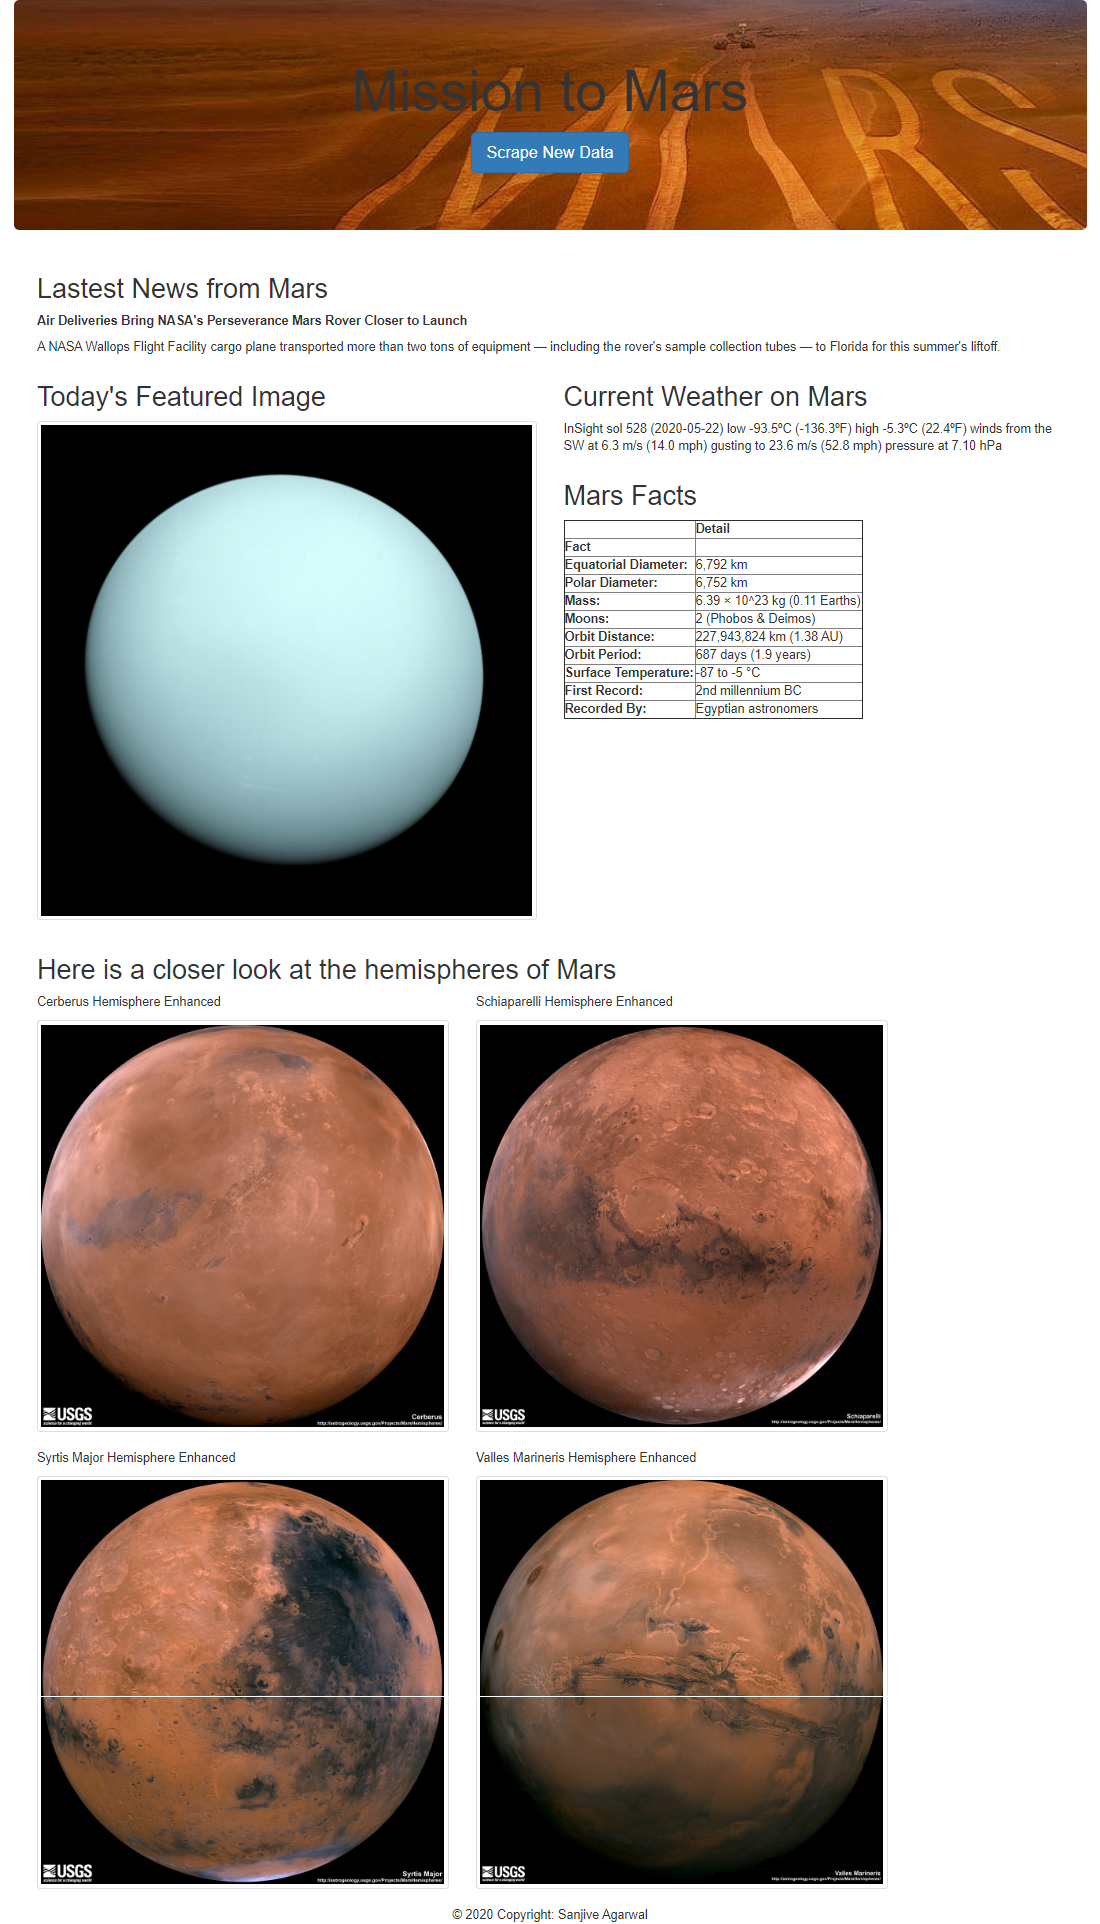
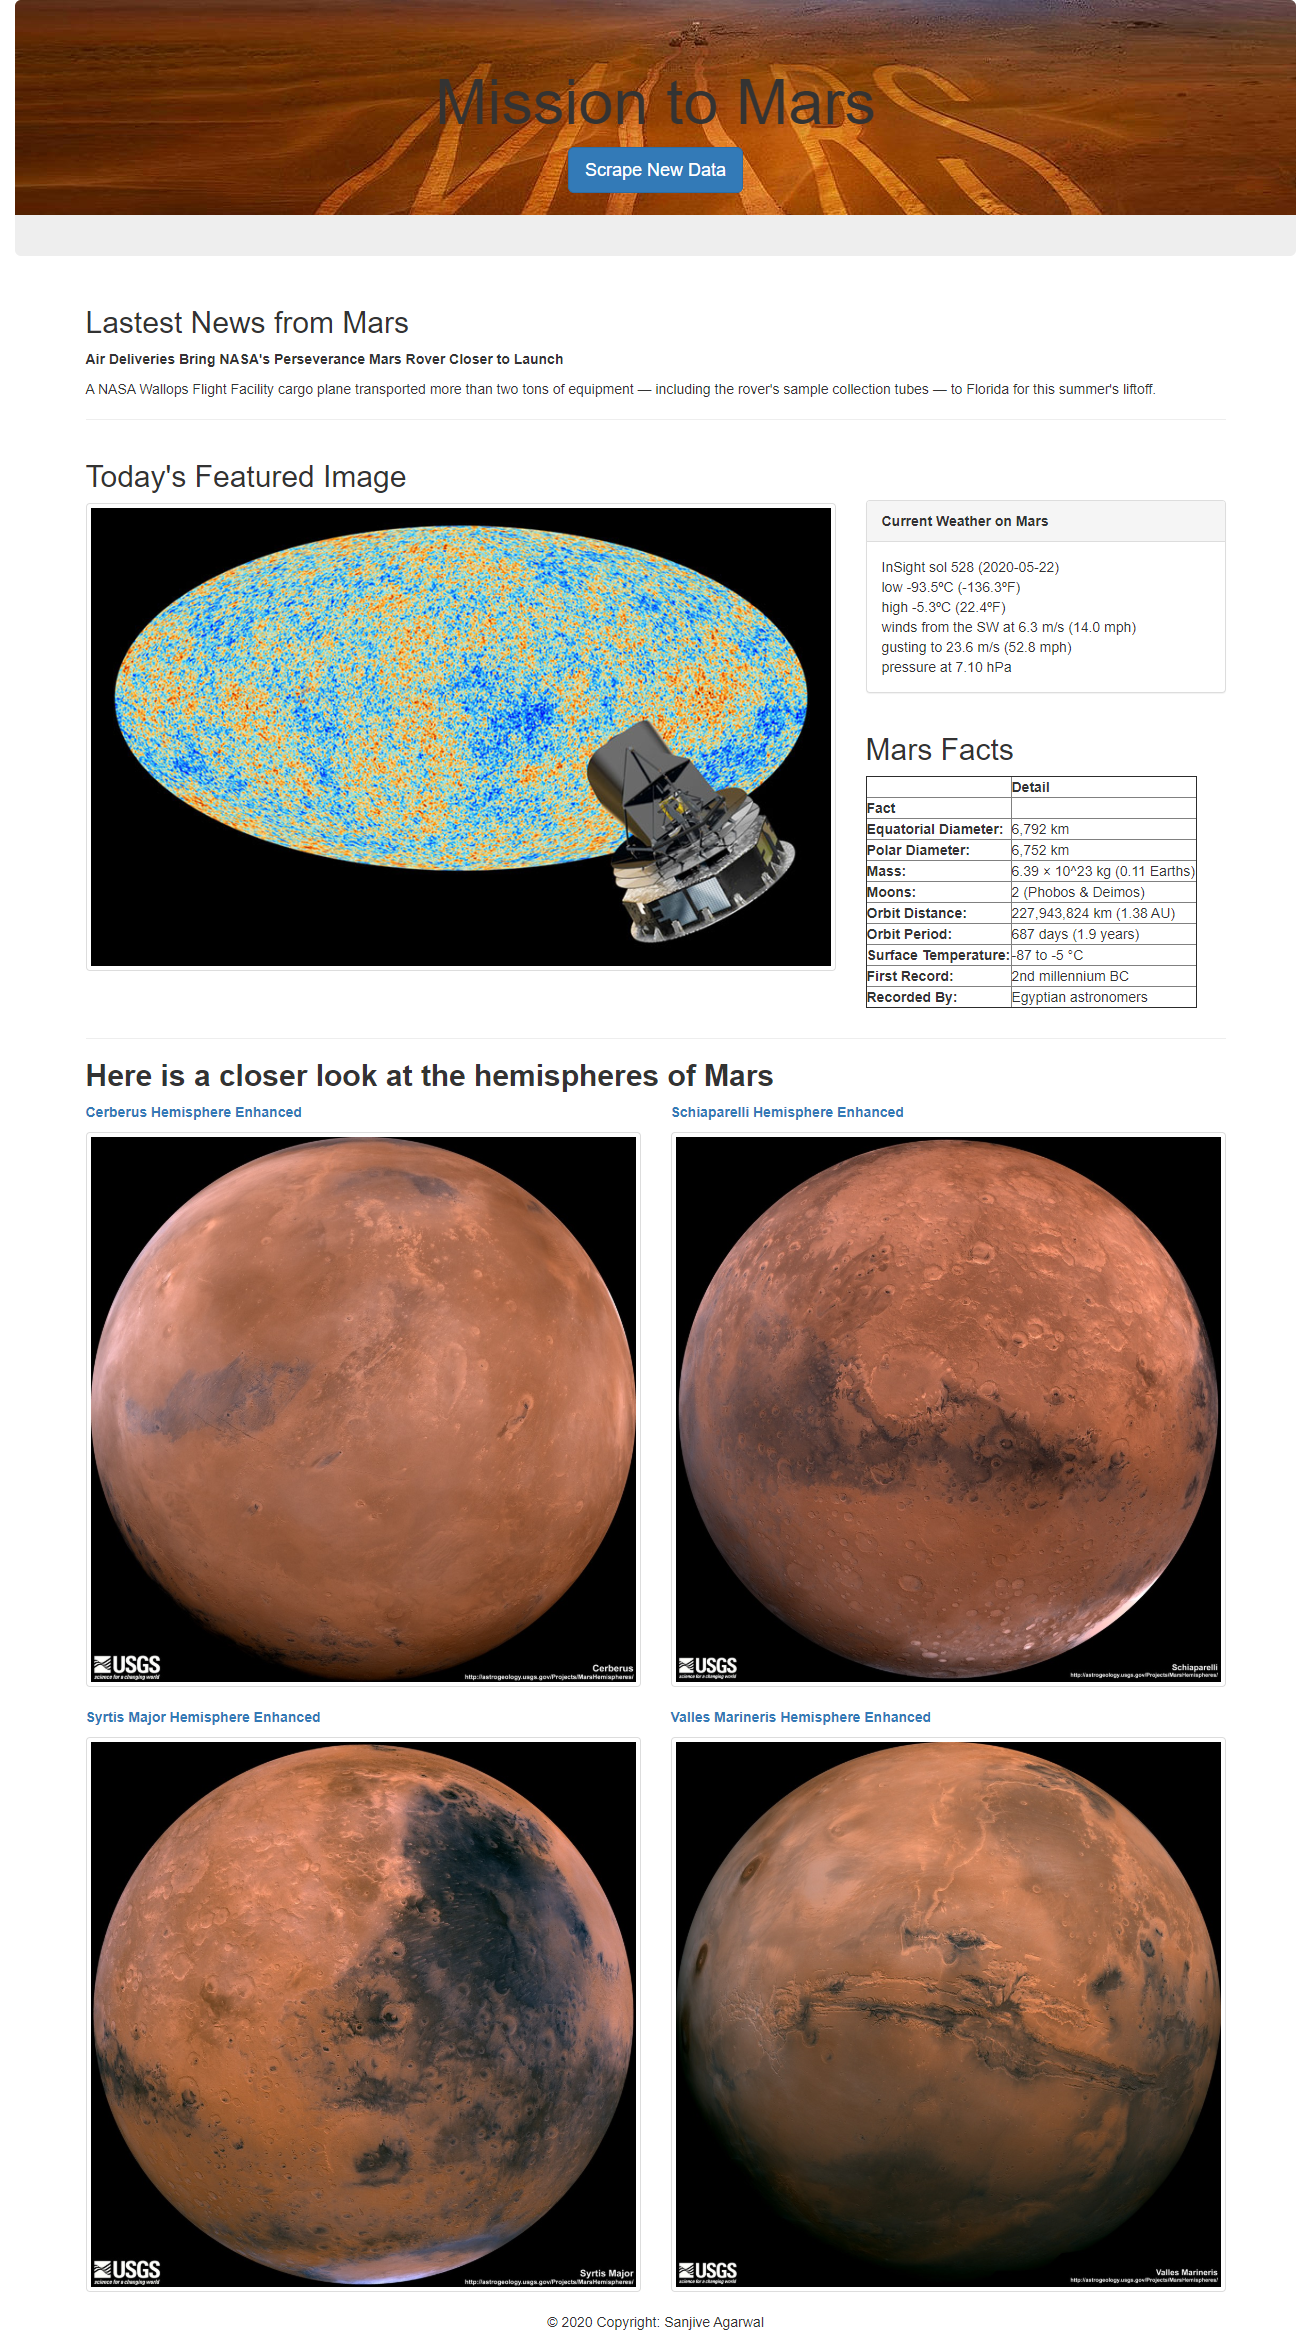
Commiting the final changes

diff --git a/mission_to_mars/templates/index.html b/mission_to_mars/templates/index.html
@@ -3,22 +3,23 @@
 
 <head>
   <!-- Required meta tags -->
-  <meta charset="UTF-8">
-  <meta name="viewport" content="width=device-width, initial-scale=1.0">
-  <!-- <meta http-equiv="X-UA-Compatible" content="ie=edge"> -->
+  <meta charset="utf-8">
+  <meta http-equiv="X-UA-Compatible" content="IE=edge">
+  <meta name="viewport" content="width=device-width, initial-scale=1">
+  <!-- The above 3 meta tags *must* come first in the head; any other head content must come *after* these tags -->
 
   <!-- Optional meta tags -->
   <meta name="author" content="Sanjive Agarwal">
   <meta name="description" content="Rutgers Data Vizualization Bootcamp Assignment - Mission to Mars">
-  <meta name="revised" content="Friday, May 25th, 2020, 4:22 pm">
+  <meta name="revised" content="Friday, May 23th, 2020, 4:22 pm">
   <meta name="keywords" content="Rutgers Data Bootcamp - Mission to Mars Assignment">
 
-  <!-- Bootstrap CSS -->
-  <link rel="stylesheet" href="https://maxcdn.bootstrapcdn.com/bootstrap/3.3.7/css/bootstrap.min.css">
+  <!-- Bootstrap ver 3.4.1 -->
+  <link rel="stylesheet" href="https://stackpath.bootstrapcdn.com/bootstrap/3.4.1/css/bootstrap.min.css"
+    integrity="sha384-HSMxcRTRxnN+Bdg0JdbxYKrThecOKuH5zCYotlSAcp1+c8xmyTe9GYg1l9a69psu" crossorigin="anonymous">
 
   <!--CSS Link-->
-  <link rel="stylesheet" type="text/css" href="./css/style.css">
-  <link rel="stylesheet" type="text/css" href="./css/min-3.css">
+  <link rel="stylesheet" type="text/css" href="static/css/style.css">
 
   <title>Mission to Mars</title>
 </head>
@@ -27,8 +28,8 @@
   <!-- Content Section -->
   <div class="container-fluid">
     <div class="jumbotron text-center"
-      style="background-image: url('https://www.nasa.gov/sites/default/files/styles/card_page_banner/public/thumbnails/image/mars-2020-rover.jpg'); background-size: cover;">
-      <h1>Mission to Mars</h1>
+      style="background-image: url('static/image/mars-2020-rover.jpg'); background-repeat: no-repeat;">
+      <h1 class="display-4">Mission to Mars</h1>
       <p><a class="btn btn-primary btn-lg" href="/scrape" role="button">Scrape New Data</a></p>
     </div>
 
@@ -36,9 +37,10 @@
     <div class="container">
       <div class="col col-12">
         <h2>Lastest News from Mars</h2>
-        <p><strong>{{ mars_dict.news_title }}</strong> </p>
+        <p><strong>{{ mars_dict.news_title }}</strong></p>
         <p>{{ mars_dict.news_p }}</p>
       </div>
+      <hr>
     </div>
 
     <!--Mars Info Section-->
@@ -46,19 +48,28 @@
       <div class="row">
         <div class="col col-12">
           <!-- Featured Img -->
-          <div class="col col-lg-6 col-6">
+          <div class="col col-lg-8 col-8">
             <h2>Today's Featured Image</h2>
             <img src="{{ mars_dict.featured_image_url }}" class="thumbnail img-responsive">
           </div>
           <!--Latest Tweet-->
-          <div class="col col-lg-6 col-6">
-            <h2>Current Weather on Mars</h2>
-            <p> {{ mars_dict.latest_tweet}}</p>
+          <div class="col col-lg-4 col-4">
+            <div>
+              <!-- Creating 2 lines space -->
+              <p>&nbsp</p>
+              <p>&nbsp</p>
+            </div>
+            <div class="panel panel-default">
+              <div class="panel-heading"><b>Current Weather on Mars</b></div>
+              <div class="panel-body">
+                {{ mars_dict.latest_tweet|safe }}
+              </div>
+            </div>
           </div>
           <!--Mars Facts-->
-          <div class="col col-lg-6 col-6">
+          <div class="col col-lg-4 col-4">
             <h2>Mars Facts</h2>
-            <p>{{ mars_dict.mars_facts_table_html|safe}}</p>
+            <p>{{ mars_dict.mars_facts_table_html|safe }}</p>
           </div>
         </div>
       </div>
@@ -66,52 +77,37 @@
 
     <!-- Hemishpere Section -->
     <div class="container">
+      <hr>
       <div class="col col-12">
-        <h2> Here is a closer look at the hemispheres of Mars </h2>
-
+        <h2><b>Here is a closer look at the hemispheres of Mars</b></h2>
         <div class="row">
-          <div class="col col-lg-5 col-6">
-            <p> {{ mars_dict.hemispheres_image_urls[0].title }}</p>
-            <img src="{{ mars_dict.hemispheres_image_urls[0].img_url }}" class="thumbnail img-responsive">
+          {%for image in mars_dict.hemispheres_image_urls%}
+          <div class="col col-lg-6 col-6 text-primary">
+            <p><b>{{ image.title }}</b></p>
+            <img src="{{ image.img_url }}" class="thumbnail img-responsive">
           </div>
-          <div class="col col-lg-5 col-6">
-            <p> {{ mars_dict.hemispheres_image_urls[1].title }}</p>
-            <img src="{{ mars_dict.hemispheres_image_urls[1].img_url }}" class="thumbnail img-responsive">
-          </div>
+          {%endfor%}
         </div>
-        <div class="row">
-          <div class="col col-lg-5 col-6">
-            <p> {{ mars_dict.hemispheres_image_urls[2].title }}</p>
-            <img src="{{ mars_dict.hemispheres_image_urls[2].img_url }}" class="thumbnail img-responsive">
-          </div>
-          <div class="col col-lg-5 col-6">
-            <p> {{ mars_dict.hemispheres_image_urls[3].title }}</p>
-            <img src="{{ mars_dict.hemispheres_image_urls[3].img_url }}" class="thumbnail img-responsive">
-          </div>
-        </div>
-
       </div>
     </div>
+
   </div>
   <!-- End of Content Section -->
 
   <!-- Footer Section -->
-  <footer class="page-footer font-small text-center bg-dark text-white">
-    <div class="footer-copyright text-center p-3">© 2020 Copyright: Sanjive Agarwal</div>
-  </footer>
+  <!-- Include the footer.txt file using javascript -->
+  <script language="javascript" type="text/javascript" src="static/footer.txt"></script>
 
   <!-- Optional JavaScript -->
   <!-- jQuery first, then Popper.js, then Bootstrap JS -->
-  <script src="https://code.jquery.com/jquery-3.4.1.slim.min.js"
-    integrity="sha384-J6qa4849blE2+poT4WnyKhv5vZF5SrPo0iEjwBvKU7imGFAV0wwj1yYfoRSJoZ+n"
+  <!-- jQuery (necessary for Bootstrap's JavaScript plugins) -->
+  <script src="https://code.jquery.com/jquery-1.12.4.min.js"
+    integrity="sha384-nvAa0+6Qg9clwYCGGPpDQLVpLNn0fRaROjHqs13t4Ggj3Ez50XnGQqc/r8MhnRDZ"
     crossorigin="anonymous"></script>
-  <script src="https://cdn.jsdelivr.net/npm/popper.js@1.16.0/dist/umd/popper.min.js"
-    integrity="sha384-Q6E9RHvbIyZFJoft+2mJbHaEWldlvI9IOYy5n3zV9zzTtmI3UksdQRVvoxMfooAo"
+  <!-- Include all compiled plugins (below), or include individual files as needed -->
+  <script src="https://stackpath.bootstrapcdn.com/bootstrap/3.4.1/js/bootstrap.min.js"
+    integrity="sha384-aJ21OjlMXNL5UyIl/XNwTMqvzeRMZH2w8c5cRVpzpU8Y5bApTppSuUkhZXN0VxHd"
     crossorigin="anonymous"></script>
-  <script src="https://stackpath.bootstrapcdn.com/bootstrap/4.4.1/js/bootstrap.min.js"
-    integrity="sha384-wfSDF2E50Y2D1uUdj0O3uMBJnjuUD4Ih7YwaYd1iqfktj0Uod8GCExl3Og8ifwB6"
-    crossorigin="anonymous"></script>
-
 </body>
 
 </html>

diff --git a/mission_to_mars/static/css/style.css b/mission_to_mars/static/css/style.css
@@ -1,0 +1,20 @@
+/* Test to see if the css file is linked properly */
+/* body {
+    background: black;
+}
+*/
+
+/* Extra small devices (portrait phones, less than 576px) */
+/* No media query for `xs` since this is the default in Bootstrap */
+
+/* Small devices (landscape phones, 576px and up) */
+@media (min-width: 576px) {}
+
+/* Medium devices (tablets, 768px and up) */
+@media (min-width: 768px) {}
+
+/* Large devices (desktops, 992px and up) */
+@media (min-width: 992px) {}
+
+/* Extra large devices (large desktops, 1200px and up) */
+@media (min-width: 1200px) {}

diff --git a/mission_to_mars/scrape_mars.py b/mission_to_mars/scrape_mars.py
@@ -89,6 +89,8 @@ def scrape():
     # Get the latest tweet and replace the new line ('\n') character with a
     # space (' ') character within the body of text.
     latest_tweet = tweets[0].find('span').text.replace('\n', ' ')
+    # Adding <br> tag to allow for moe readable display of the weather in the web page
+    latest_tweet = latest_tweet.replace(')', ')<br>')
 
     # Store the info in the mars_dict
     mars_dict['latest_tweet'] = latest_tweet
